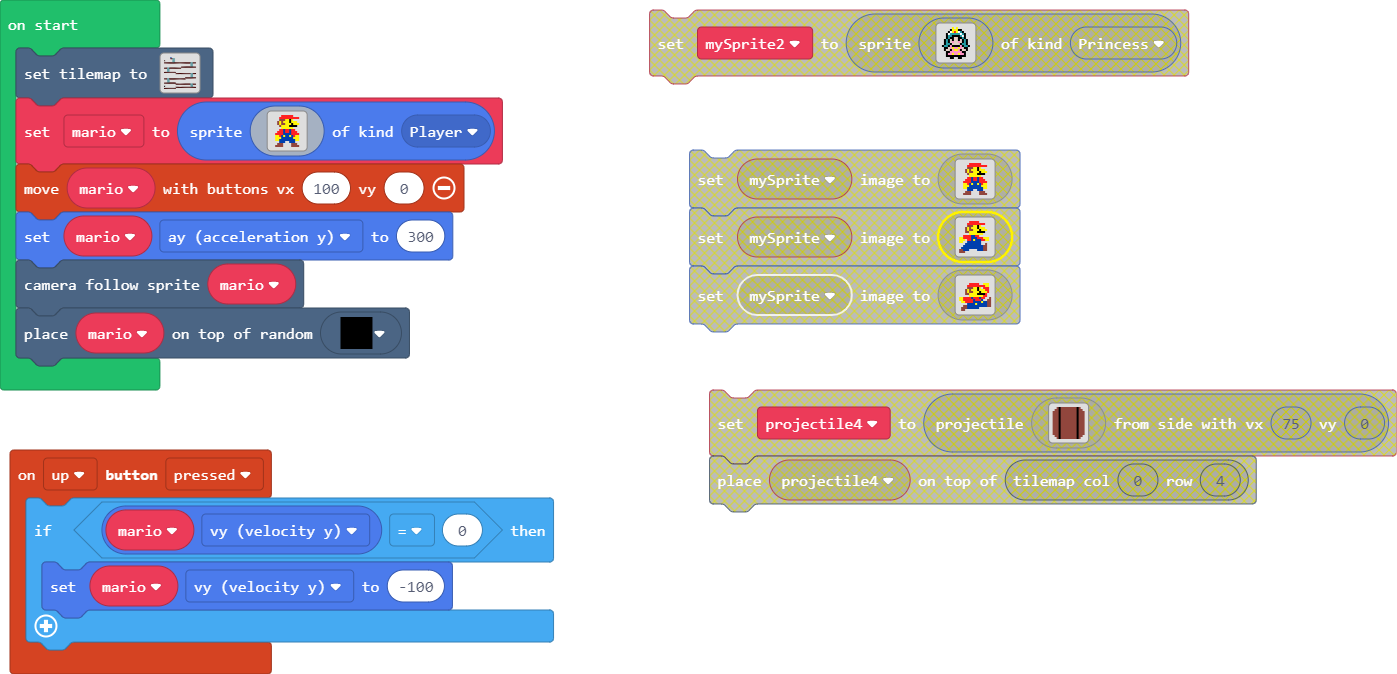
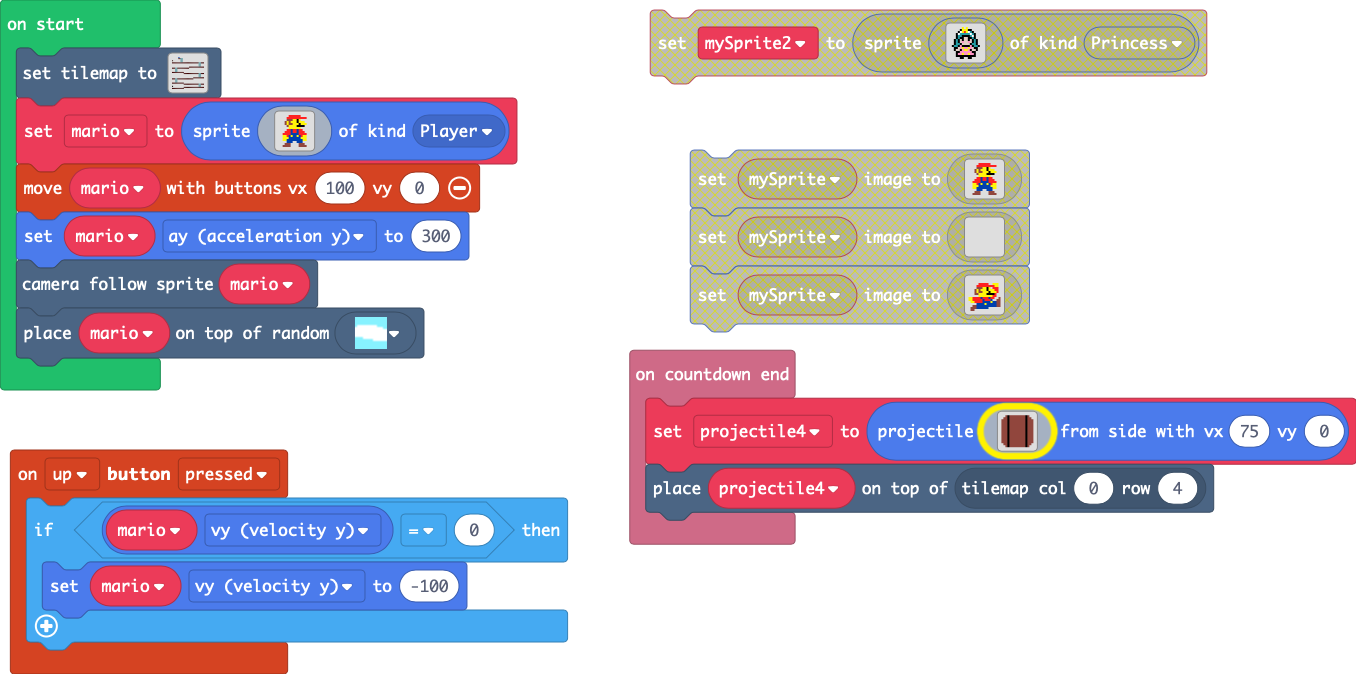
Update main.blocks, main.ts

diff --git a/main.ts b/main.ts
@@ -117,11 +117,33 @@ f f f f f f f f f f f f f f f f
 9 9 . . . . . . . . . . . . 9 9 
 `
 }
+info.onCountdownEnd(function () {
+    projectile4 = sprites.createProjectileFromSide(img`
+. . e f e e e e e e e e f e . . 
+. e e f e e e e e e e e f e e . 
+e e e f e e e e e e e e f e e e 
+e e e f e e e e e e e e f e e e 
+e e e f e e e e e e e e f e e e 
+e e e f e e e e e e e e f e e e 
+e e e f e e e e e e e e f e e e 
+e e e f e e e e e e e e f e e e 
+e e e f e e e e e e e e f e e e 
+e e e f e e e e e e e e f e e e 
+e e e f e e e e e e e e f e e e 
+e e e f e e e e e e e e f e e e 
+e e e f e e e e e e e e f e e e 
+e e e f e e e e e e e e f e e e 
+. e e f e e e e e e e e f e e . 
+. . e f e e e e e e e e f e . . 
+`, 75, 0)
+    tiles.placeOnTile(projectile4, tiles.getTileLocation(0, 4))
+})
 controller.up.onEvent(ControllerButtonEvent.Pressed, function () {
     if (mario.vy == 0) {
         mario.vy = -100
     }
 })
+let projectile4: Sprite = null
 let mario: Sprite = null
 tiles.setTilemap(tiles.createTilemap(
[1 lines of base64/hex data omitted]
